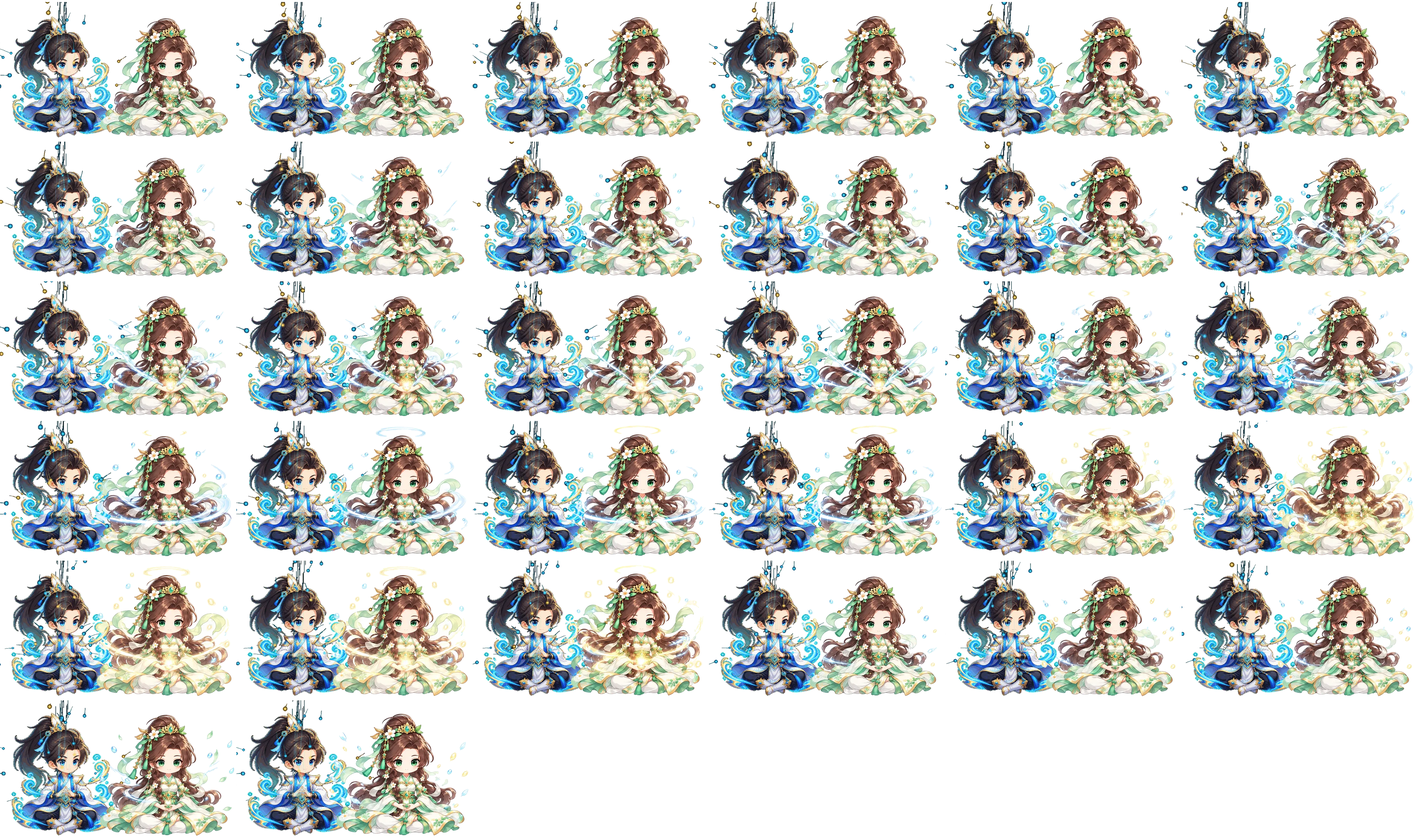
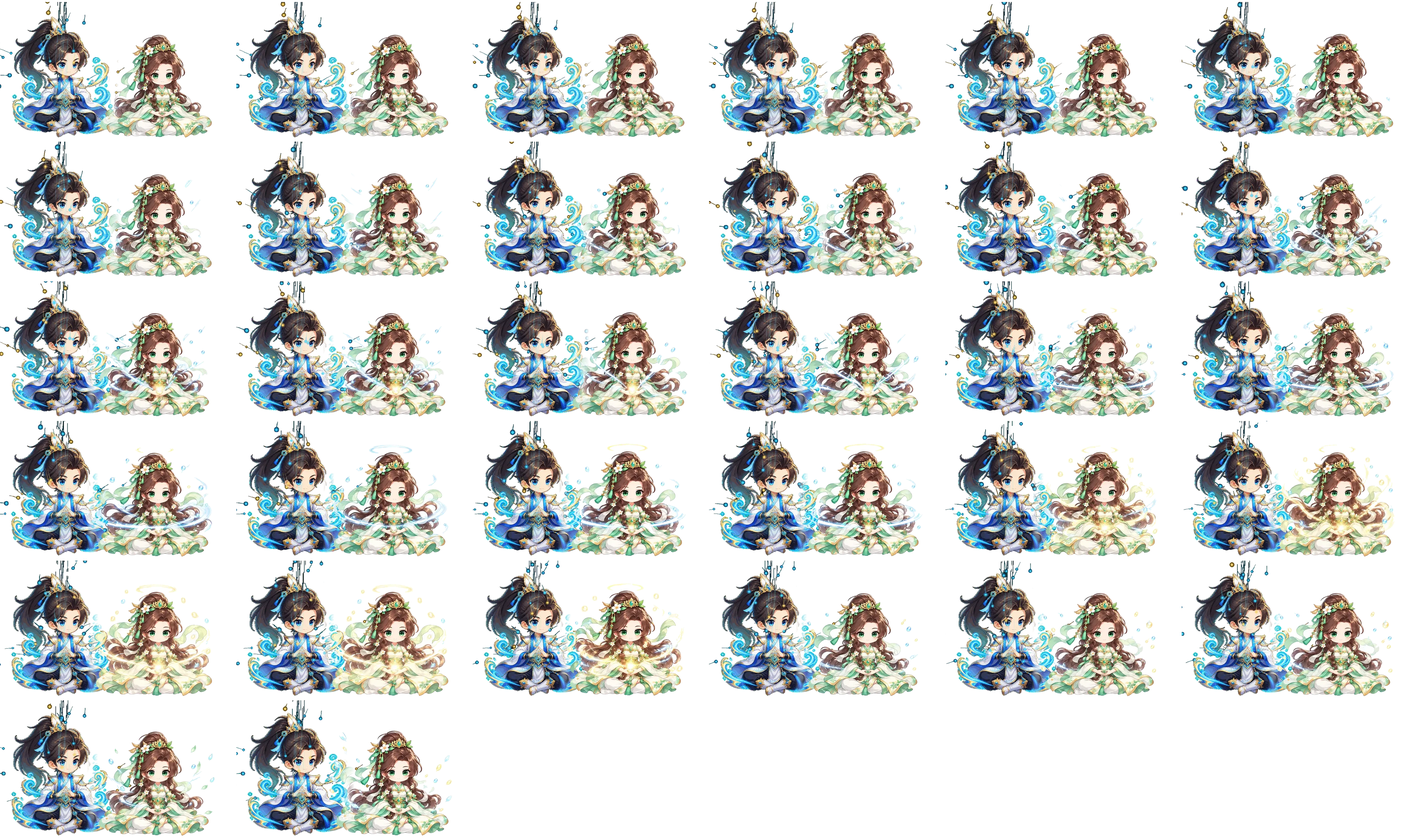
Home dual cultivation: draw the companions at the hero's size
The composite matched both figures' body heights, but the companions' heads and robes are fuller than the chibi hero, so they read larger. Each frame's companion half is scaled down (86–88%) on the same ground line beside him, with a soft cut between the two, and the qi glow follows her new centre.

diff --git a/src/features/companion/domain/companionSprites.ts b/src/features/companion/domain/companionSprites.ts
@@ -121,7 +121,7 @@ export const heroCultivationSprite: CompanionSprite = {
   blendMs: 0,
 };
 
-/** The hero's solo loop and the companion's own solo loop (drawn in the same style) side by side; 32 frames at 156 ms: a five-second breath, slower than the solo loop (her 18 drawn frames are spread over them). */
+/** The hero's solo loop and the companion's own solo loop (drawn in the same style) side by side, her side scaled down to his size (tools/shrink_dual_partner.py); 32 frames at 156 ms: a five-second breath, slower than the solo loop (her 18 drawn frames are spread over them). */
 const dualCultivationSprites: Readonly<Record<string, CompanionSprite>> = {
   "lin-tingxue": {
     sheet: "/assets/companions/dual_lin_tingxue-sheet.webp",
@@ -131,7 +131,7 @@ const dualCultivationSprites: Readonly<Record<string, CompanionSprite>> = {
     cellHeight: 438,
     steps: range(32).map(cell => ({ cell, holdMs: 156 })),
     blendMs: 0,
-    peopleX: [27, 73],
+    peopleX: [27, 68],
   },
   "su-wanqing": {
     sheet: "/assets/companions/dual_su_wanqing-sheet.webp",
@@ -141,7 +141,7 @@ const dualCultivationSprites: Readonly<Record<string, CompanionSprite>> = {
     cellHeight: 424,
     steps: range(32).map(cell => ({ cell, holdMs: 156 })),
     blendMs: 0,
-    peopleX: [27, 69],
+    peopleX: [27, 65],
   },
   "gu-xinglan": {
     sheet: "/assets/companions/dual_gu_xinglan-sheet.webp",
@@ -151,7 +151,7 @@ const dualCultivationSprites: Readonly<Record<string, CompanionSprite>> = {
     cellHeight: 425,
     steps: range(32).map(cell => ({ cell, holdMs: 156 })),
     blendMs: 0,
-    peopleX: [27, 70],
+    peopleX: [27, 65],
   },
   "murong-wanyue": {
     sheet: "/assets/companions/dual_murong_wanyue-sheet.webp",
@@ -161,7 +161,7 @@ const dualCultivationSprites: Readonly<Record<string, CompanionSprite>> = {
     cellHeight: 423,
     steps: range(32).map(cell => ({ cell, holdMs: 156 })),
     blendMs: 0,
-    peopleX: [28, 70],
+    peopleX: [28, 65],
   },
 };
 
